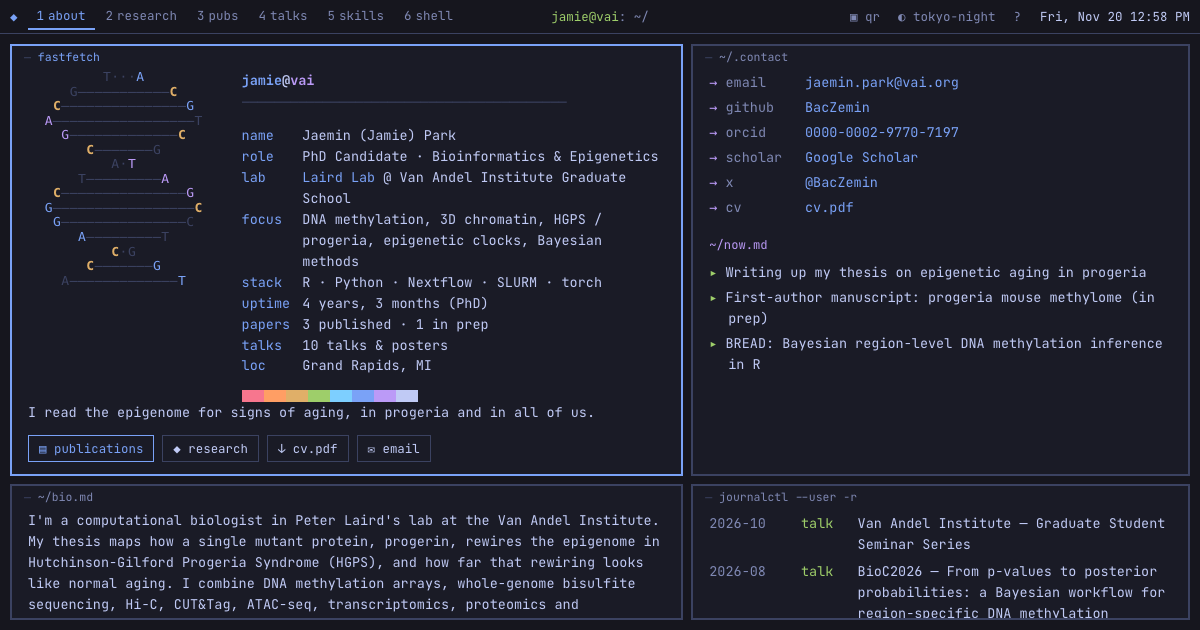
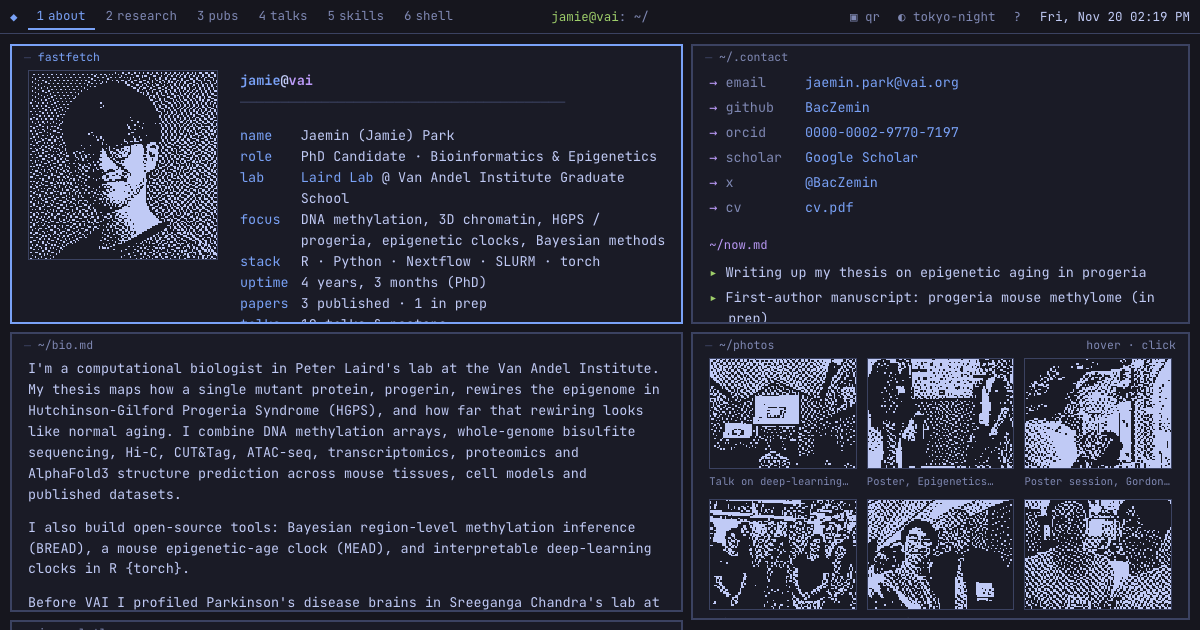
Add headshot, 17 conference/lab photos, talk images; tune dithering and home layout
Photos are resized and stripped of EXIF/GPS metadata. Gallery shows 6 on the
home page with an all-photos lightbox; talks show a photo in their preview.

Claude-Session: https://claude.ai/code/session_016rNnjB6dpt8w7rXq796MnF

Changed region(s): [[0.0, 0.0905, 0.9867, 1.0]]

diff --git a/assets/js/app.js b/assets/js/app.js
@@ -145,7 +145,7 @@
       const fetch = `
         <h1 class="hero">${esc(p.name)}<small>${esc(p.role)} · ${esc(p.org)}</small></h1>
         <div class="fetch">
-          ${p.photo ? photoFig({ src: p.photo, alt: `Photo of ${p.name}` }, 'headshot', '4/5', 'onerror')
+          ${p.photo ? photoFig({ src: p.photo, alt: `Photo of ${p.name}` }, 'headshot', '1/1', 'onerror')
             : `<pre class="helix" id="helix" aria-hidden="true" title="a rotating DNA helix; yellow C's are methylated CpGs"></pre>`}
           <div class="fetch-info">
             <div class="who"><span class="u">${esc(p.short || 'me')}</span>@<span class="h">${esc(p.host || 'lab')}</span></div>
@@ -300,8 +300,12 @@
     return `<div class="fig">${photoFig(im, 'science')}${im.caption ? `<div class="cap">${esc(im.caption)}</div>` : ''}</div>`;
   }
   function renderGallery() {
-    return `<div class="gallery">${S.gallery.map((g, i) => `<button class="thumb" data-lightbox="${i}" aria-label="Open photo: ${esc(g.caption || g.alt || '')}">
-        ${photoFig(g, '', '3/2').replace(' tabindex="0"', '')}<span class="cap">${esc(g.caption || '')}</span></button>`).join('')}</div>`;
+    const SHOW = 6;                       // thumbnails on the home page; the rest via the lightbox
+    const thumbs = S.gallery.slice(0, SHOW).map((g, i) => `<button class="thumb" data-lightbox="${i}" aria-label="Open photo: ${esc(g.caption || g.alt || '')}">
+        ${photoFig(g, '', '4/3').replace(' tabindex="0"', '')}<span class="cap">${esc(g.caption || '')}</span></button>`).join('');
+    const more = S.gallery.length > SHOW
+      ? `<button class="chip more" data-lightbox="${SHOW}">▸ all ${S.gallery.length} photos</button>` : '';
+    return `<div class="gallery">${thumbs}</div>${more}`;
   }
 
   const hexRgb = (h) => { h = h.replace('#', ''); if (h.length === 3) h = [...h].map((c) => c + c).join(''); const n = parseInt(h, 16); return [n >> 16 & 255, n >> 8 & 255, n & 255]; };
@@ -312,7 +316,7 @@
     if (!img || !cv) return;
     const run = () => {
       if (!img.naturalWidth) return;
-      const cell = fig.closest('.thumb') ? 1.5 : 2;                       // screen px per dither dot
+      const cell = fig.closest('.thumb') || fig.classList.contains('headshot') ? 1.5 : 2;   // screen px per dither dot
       const box = fig.getBoundingClientRect().width || 240;
       const w = Math.max(48, Math.round(box / cell));
       const [aw, ah] = (fig.dataset.aspect || '').split('/').map(Number);
@@ -328,11 +332,23 @@
       g.drawImage(img, sx, sy, sw, sh, 0, 0, w, h);
       const data = g.getImageData(0, 0, w, h), px = data.data;
       // luminance + auto-levels so dark or washed-out photos still dither nicely
-      const Lm = new Float32Array(w * h);
-      let lo = 255, hi = 0;
-      for (let k = 0; k < Lm.length; k++) { const v = lum([px[4 * k], px[4 * k + 1], px[4 * k + 2]]); Lm[k] = v; if (v < lo) lo = v; if (v > hi) hi = v; }
-      const span = Math.max(1, hi - lo);
-      for (let k = 0; k < Lm.length; k++) Lm[k] = Math.min(1, Math.max(0, ((Lm[k] - lo) / span - 0.5) * 1.12 + 0.52));
+      const Lm = new Float32Array(w * h), hist = new Uint32Array(256);
+      for (let k = 0; k < Lm.length; k++) { const v = lum([px[4 * k], px[4 * k + 1], px[4 * k + 2]]); Lm[k] = v; hist[v | 0]++; }
+      // robust levels: 3rd–99th percentile, then a gamma curve that sinks flat midtones
+      // (studio backdrops, walls) into the dark tone so faces and highlights carry the image
+      const pct = (q) => { let acc = 0; for (let v = 0; v < 256; v++) { acc += hist[v]; if (acc >= q * Lm.length) return v; } return 255; };
+      const lo = pct(0.03), hi = Math.max(lo + 1, pct(0.99)), gamma = 1.3;
+      for (let k = 0; k < Lm.length; k++) Lm[k] = Math.pow(Math.min(1, Math.max(0, (Lm[k] - lo) / (hi - lo))), gamma);
+      // unsharp mask (3×3 box blur) so edges — hair, glasses, jawlines — survive the dithering
+      const blur = new Float32Array(Lm.length);
+      for (let y = 0; y < h; y++) for (let x = 0; x < w; x++) {
+        let sum = 0, n = 0;
+        for (let dy = -1; dy <= 1; dy++) for (let dx = -1; dx <= 1; dx++) {
+          const xx = x + dx, yy = y + dy; if (xx >= 0 && xx < w && yy >= 0 && yy < h) { sum += Lm[yy * w + xx]; n++; }
+        }
+        blur[y * w + x] = sum / n;
+      }
+      for (let k = 0; k < Lm.length; k++) Lm[k] = Math.min(1, Math.max(0, Lm[k] + 0.9 * (Lm[k] - blur[k])));
       // Atkinson dithering (classic Macintosh look): diffuses 6/8 of the error, keeps faces readable
       const ink = hexRgb(cssVar('--fg')), paper = hexRgb(cssVar('--pane'));
       const [bright, dark] = lum(ink) > lum(paper) ? [ink, paper] : [paper, ink];

diff --git a/assets/css/tui.css b/assets/css/tui.css
@@ -105,10 +105,10 @@ kbd {
 /* per-workspace tiling layouts */
 .ws-about    { grid-template-columns: 1.35fr 1fr; grid-template-rows: auto auto minmax(0,1fr); }
 .ws-about .p-fetch  { grid-column: 1; grid-row: 1; }
-.ws-about .p-bio    { grid-column: 1; grid-row: 2 / span 2; }
+.ws-about .p-bio    { grid-column: 1; grid-row: 2; }
+.ws-about .p-log    { grid-column: 1; grid-row: 3; }
 .ws-about .p-links  { grid-column: 2; grid-row: 1; }
-.ws-about .p-photos { grid-column: 2; grid-row: 2; }
-.ws-about .p-log    { grid-column: 2; grid-row: 3; }
+.ws-about .p-photos { grid-column: 2; grid-row: 2 / span 2; }
 .ws-research, .ws-talks { grid-template-columns: minmax(0,1fr) minmax(0,1.25fr); }
 .ws-pubs     { grid-template-columns: minmax(0,2.2fr) minmax(0,1fr); }
 .ws-skills   { grid-template-columns: minmax(0,1.4fr) minmax(0,1fr); grid-template-rows: minmax(0,1.3fr) minmax(0,1fr); }
@@ -180,13 +180,15 @@ kbd {
 }
 .photo.headshot { width: 190px; flex: none; border: 1px solid var(--border); }
 .fig { margin: 14px 0 4px; }
-.fig .photo { border: 1px solid var(--border); }
+.fig .photo { border: 1px solid var(--border); max-width: 560px; }
 .fig .cap, .thumb .cap { display: block; color: var(--muted); font-size: .85em; margin-top: 4px; }
 
 .gallery { display: grid; grid-template-columns: repeat(3, minmax(0, 1fr)); gap: 10px; }
 .thumb { display: flex; flex-direction: column; justify-content: flex-start; background: none; border: 0; padding: 0; text-align: left; cursor: zoom-in; color: inherit; font-size: .92em; }
 .thumb .photo { border: 1px solid var(--border); }
 .thumb:hover .photo, .thumb:focus-visible .photo { border-color: var(--accent); }
+.thumb .cap { display: -webkit-box; -webkit-line-clamp: 1; -webkit-box-orient: vertical; overflow: hidden; }
+.chip.more { margin-top: 10px; }
 
 .lightbox { width: min(1100px, calc(100vw - 32px)); max-height: 90vh; padding: 26px 14px 12px; }
 .lightbox img { display: block; width: 100%; max-height: 72vh; object-fit: contain; background: var(--bg-alt); }
@@ -395,7 +397,11 @@ mark { background: var(--yellow); color: var(--bg); }
     height: auto; grid-template-columns: minmax(0,1fr); grid-template-rows: none; grid-auto-rows: auto;
   }
   .photo.headshot { width: min(240px, 70vw); }
+  /* phone reading order: who → how to reach → bio → photos → activity */
+  .ws-about .p-fetch { order: 1; } .ws-about .p-links { order: 2; } .ws-about .p-bio { order: 3; }
+  .ws-about .p-photos { order: 4; } .ws-about .p-log { order: 5; }
   .gallery { grid-template-columns: 1fr 1fr; }
+  .thumb .cap { -webkit-line-clamp: 2; }
   .lb-bar { grid-template-columns: 1fr 1fr; }
   .lb-cap { grid-column: 1 / -1; grid-row: 1; }
   .ws-about .p-fetch, .ws-about .p-bio, .ws-about .p-photos, .ws-about .p-links, .ws-about .p-log, .ws-skills .p-btop {
